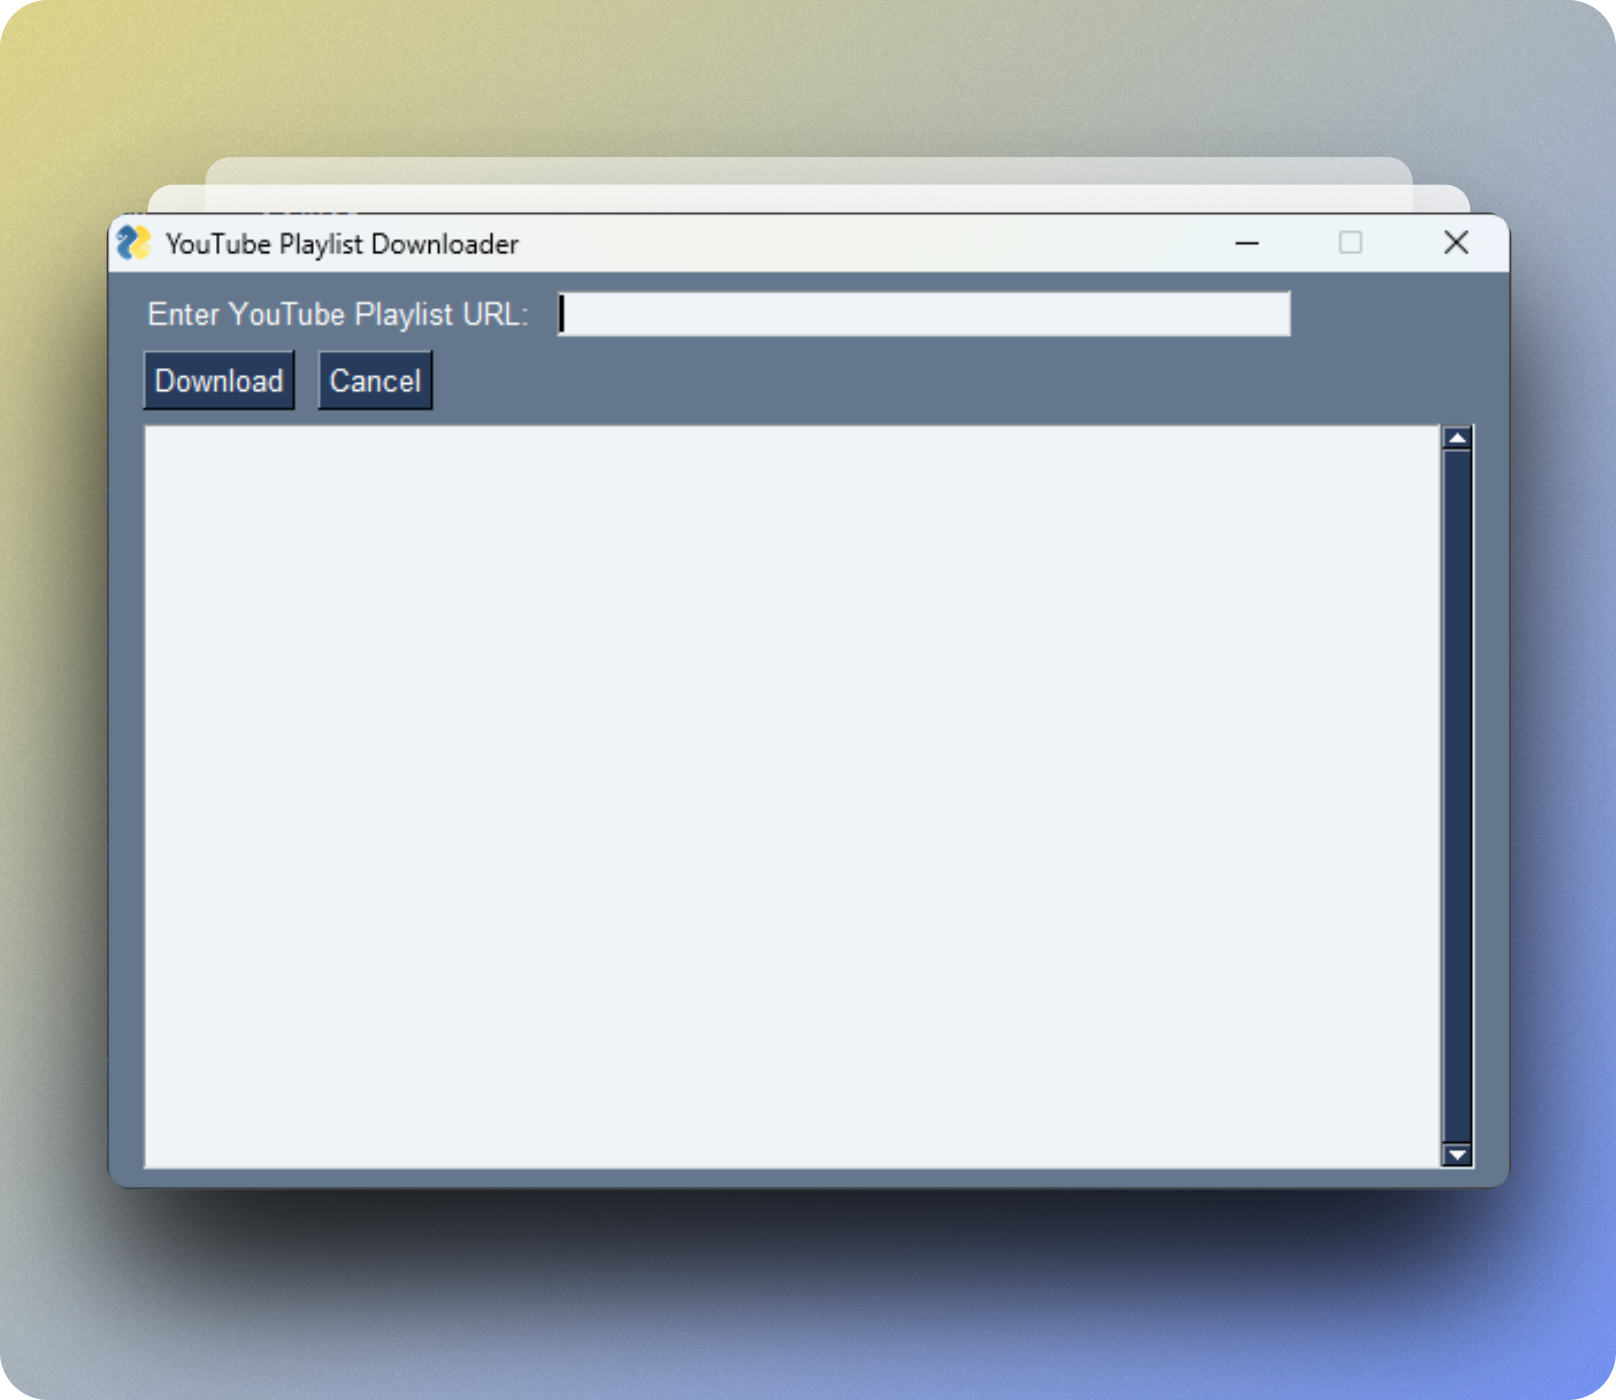
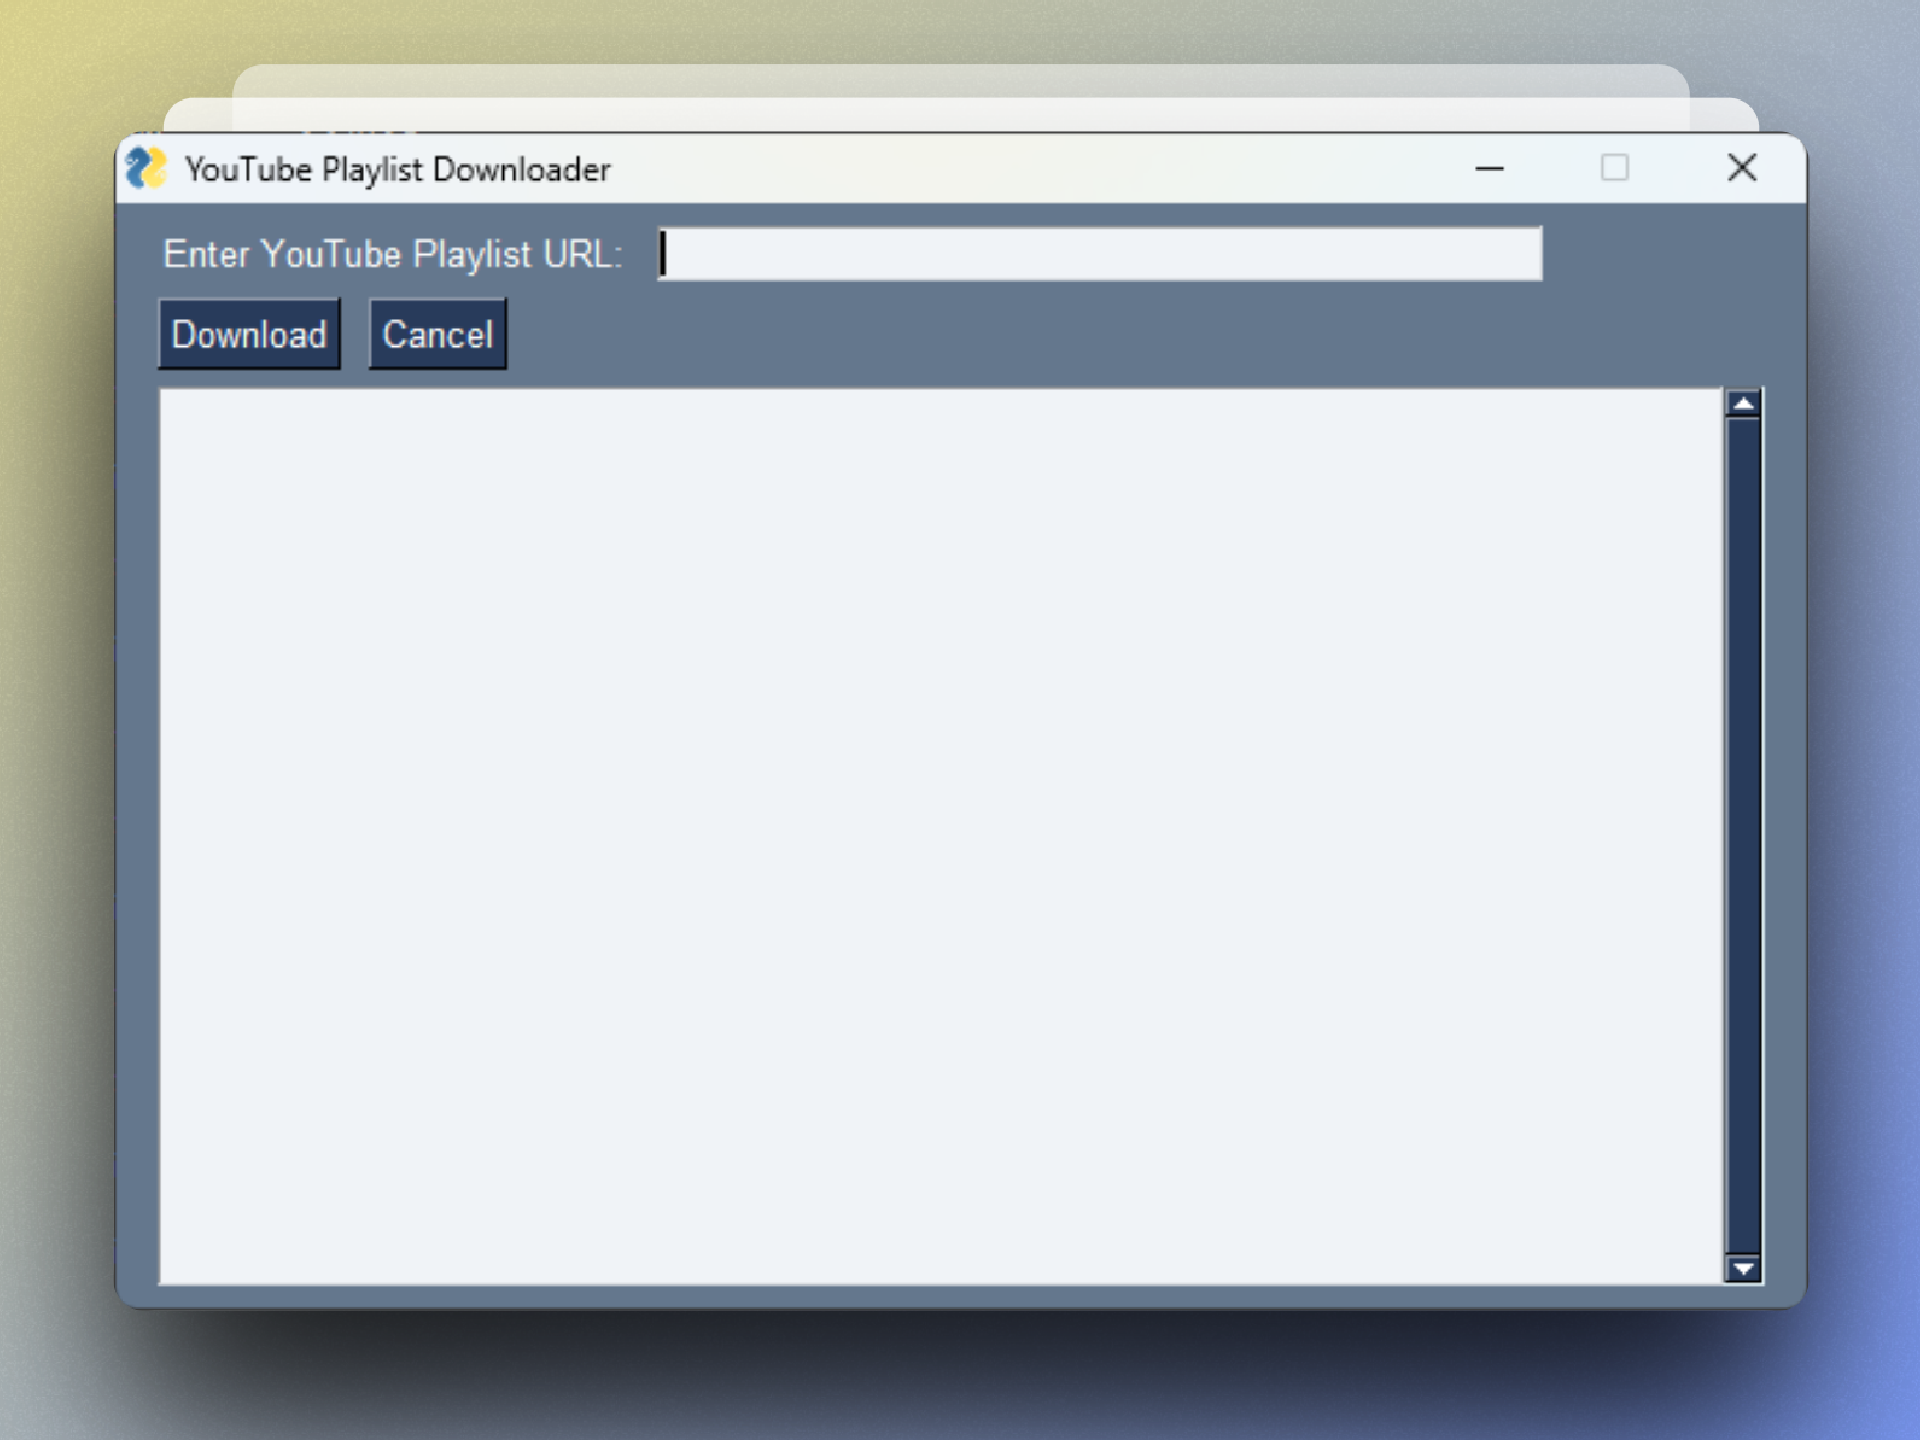
🐛 Fix: Minor Bugs & Image Improvement

diff --git a/index.html b/index.html
@@ -899,7 +899,7 @@
               </li>
 
               <li class="filter-item">
-                <button data-filter-btn>Web design</button>
+                <button data-filter-btn>Data Science</button>
               </li>
 
               <li class="filter-item">
@@ -928,7 +928,7 @@
                 </li>
 
                 <li class="select-item">
-                  <button data-select-item>Web design</button>
+                  <button data-select-item>Data Science</button>
                 </li>
 
                 <li class="select-item">
@@ -1065,9 +1065,9 @@
               <li
                 class="project-item active"
                 data-filter-item
-                data-category="web design"
+                data-category="data science"
               >
-                <a href="#">
+                <a href="https://github.com/DhananjayPorwal/language-identifier-nlp">
                   <figure class="project-img">
                     <div class="project-item-icon-box">
                       <ion-icon name="eye-outline"></ion-icon>
@@ -1075,23 +1075,23 @@
 
                     <img
                       src="./assets/images/project-6.png"
-                      alt="metaspark"
+                      alt="language-identifier"
                       loading="lazy"
                     />
                   </figure>
 
-                  <h3 class="project-title">MetaSpark</h3>
+                  <h3 class="project-title">Language Identifier</h3>
 
-                  <p class="project-category">Web design</p>
+                  <p class="project-category">Data Science</p>
                 </a>
               </li>
 
               <li
                 class="project-item active"
                 data-filter-item
-                data-category="web development"
+                data-category="data science"
               >
-                <a href="#">
+                <a href="https://github.com/DhananjayPorwal/whatsapp-chat-analyser">
                   <figure class="project-img">
                     <div class="project-item-icon-box">
                       <ion-icon name="eye-outline"></ion-icon>
@@ -1099,21 +1099,21 @@
 
                     <img
                       src="./assets/images/project-7.png"
-                      alt="summary"
+                      alt="whatsapp-chat-analyser"
                       loading="lazy"
                     />
                   </figure>
 
-                  <h3 class="project-title">Summary</h3>
+                  <h3 class="project-title">WhatsApp Chat Analyzer</h3>
 
-                  <p class="project-category">Web development</p>
+                  <p class="project-category">Data Science</p>
                 </a>
               </li>
 
               <li
                 class="project-item active"
                 data-filter-item
-                data-category="python"
+                data-category="applications"
               >
                 <a
                   href="https://github.com/DhananjayPorwal/youtube-video-downloader-gui"
@@ -1124,7 +1124,7 @@
                     </div>
 
                     <img
-                      src="./assets/images/youtube-video-downloader.png"
+                      src="./assets/images/project-8.png"
                       alt="task manager"
                       loading="lazy"
                     />
@@ -1139,7 +1139,7 @@
               <li
                 class="project-item active"
                 data-filter-item
-                data-category="python"
+                data-category="applications"
               >
                 <a
                   href="https://github.com/DhananjayPorwal/youtube-playlist-downloader"
